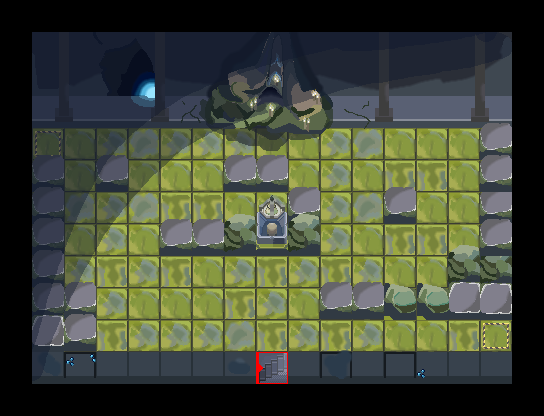
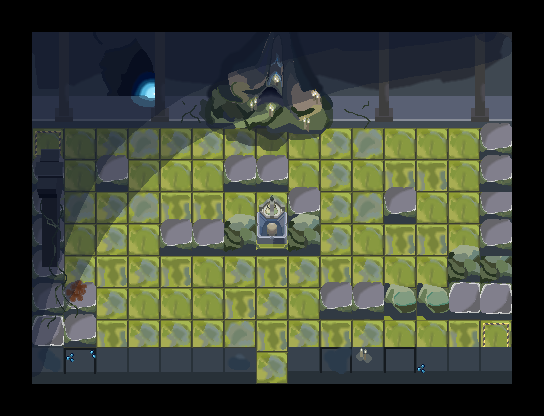
보스멥 에셋 추가

diff --git a/Arrrknights/core/src/main/java/com/shatteredpixel/shatteredpixeldungeon/Assets.java b/Arrrknights/core/src/main/java/com/shatteredpixel/shatteredpixeldungeon/Assets.java
@@ -73,6 +73,9 @@ public class Assets {
 		public static final String RHODES_28F         = "environment/custom_tiles/rhodes_28f.png";
 		public static final String RHODES_29F         = "environment/custom_tiles/rhodes_29f.png";
 		public static final String RHODES_30F         = "environment/custom_tiles/rhodes_30f.png";
+		public static final String GAVIAL_BOSS2         = "environment/custom_tiles/gavial_boss2";
+		public static final String IBERIA_BOSS1_1         = "environment/custom_tiles/iberia_boss1_1";
+		public static final String IBERIA_BOSS1_2         = "environment/custom_tiles/iberia_boss1_2";
 	}
 	
 	//TODO include other font assets here? Some are platform specific though...
